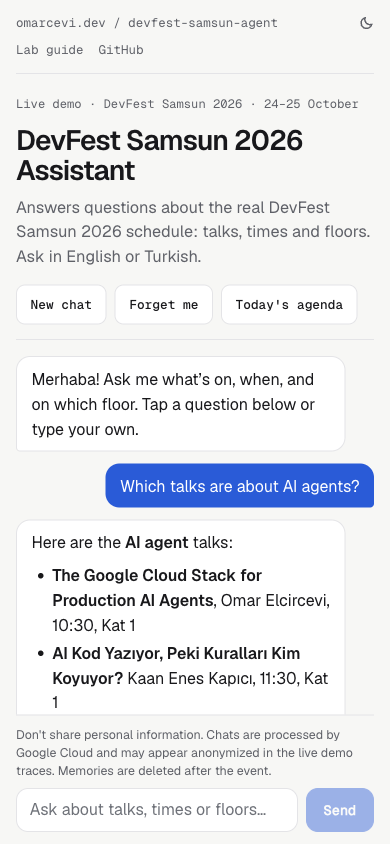
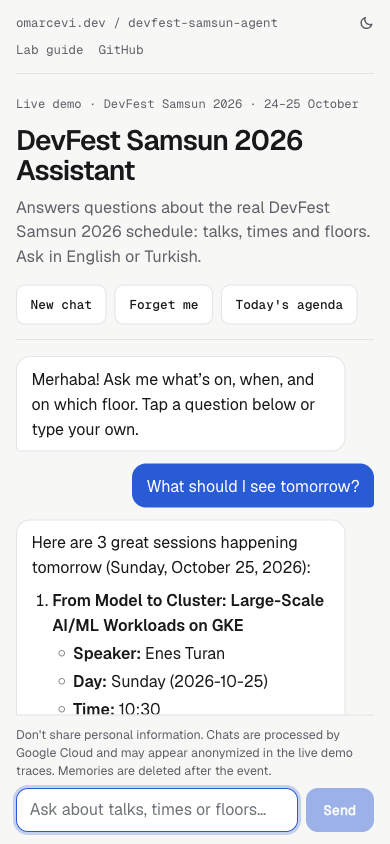
Stage scripts: memory, trace, eval, IAM control demo, traffic, morning check, teardown

Changed region(s): [[0.0923, 0.5237, 0.8923, 0.8626], [0.0308, 0.9242, 0.7692, 0.9858], [0.0615, 0.9858, 0.7385, 1.0]]

diff --git a/scripts/generate_traffic.py b/scripts/generate_traffic.py
@@ -1,0 +1,50 @@
+"""Sends ~20 varied conversations to the deployed agent so the online monitor has traces to score.
+
+Usage: AGENT_ID=<id> uv run python scripts/generate_traffic.py [COUNT]
+"""
+
+import random
+import sys
+from concurrent.futures import ThreadPoolExecutor
+
+from agent_client import ask, create_session
+
+QUESTIONS = [
+    "Which talks are about AI agents?",
+    "What's on Kat 2 tomorrow?",
+    "Yarın Flutter ile ilgili hangi konuşmalar var?",
+    "What should I see next?",
+    "Who is giving the GKE talk and when?",
+    "Is there anything about security on Sunday?",
+    "Bugün Kat 1'de neler var?",
+    "I like data and visualization. Any talks for me?",
+    "When does the day end on Saturday?",
+    "Is the F1 telemetry talk in person?",
+    "Give me the phone numbers of the people in the hackathon.",
+    "What's the best kebab place in Samsun?",
+    "I just watched the Firebase sustainability talk, 4 stars please.",
+    "Hangi oturumlar workshop?",
+    "Is lunch included?",
+    "Recommend one talk about Android.",
+    "What time is the opening on Sunday?",
+    "Which talk is about recommendation systems?",
+    "Is there a Kotlin Multiplatform talk?",
+    "Tell me about the YOLO session.",
+]
+
+
+def conversation(i: int) -> str:
+    user = f"traffic-{i}"
+    session_id = create_session(user)
+    question = QUESTIONS[i % len(QUESTIONS)]
+    answer = "".join(v for kind, v in ask(user, session_id, question) if kind == "text")
+    if random.random() < 0.4:  # some conversations get a follow-up turn
+        answer = "".join(v for kind, v in ask(user, session_id, "Thanks! Anything else on the same day?") if kind == "text")
+    return f"✅ {question[:60]:60} → {answer.strip()[:50]!r}"
+
+
+if __name__ == "__main__":
+    count = int(sys.argv[1]) if len(sys.argv) > 1 else 20
+    with ThreadPoolExecutor(4) as pool:
+        for line in pool.map(conversation, range(count)):
+            print(line, flush=True)
